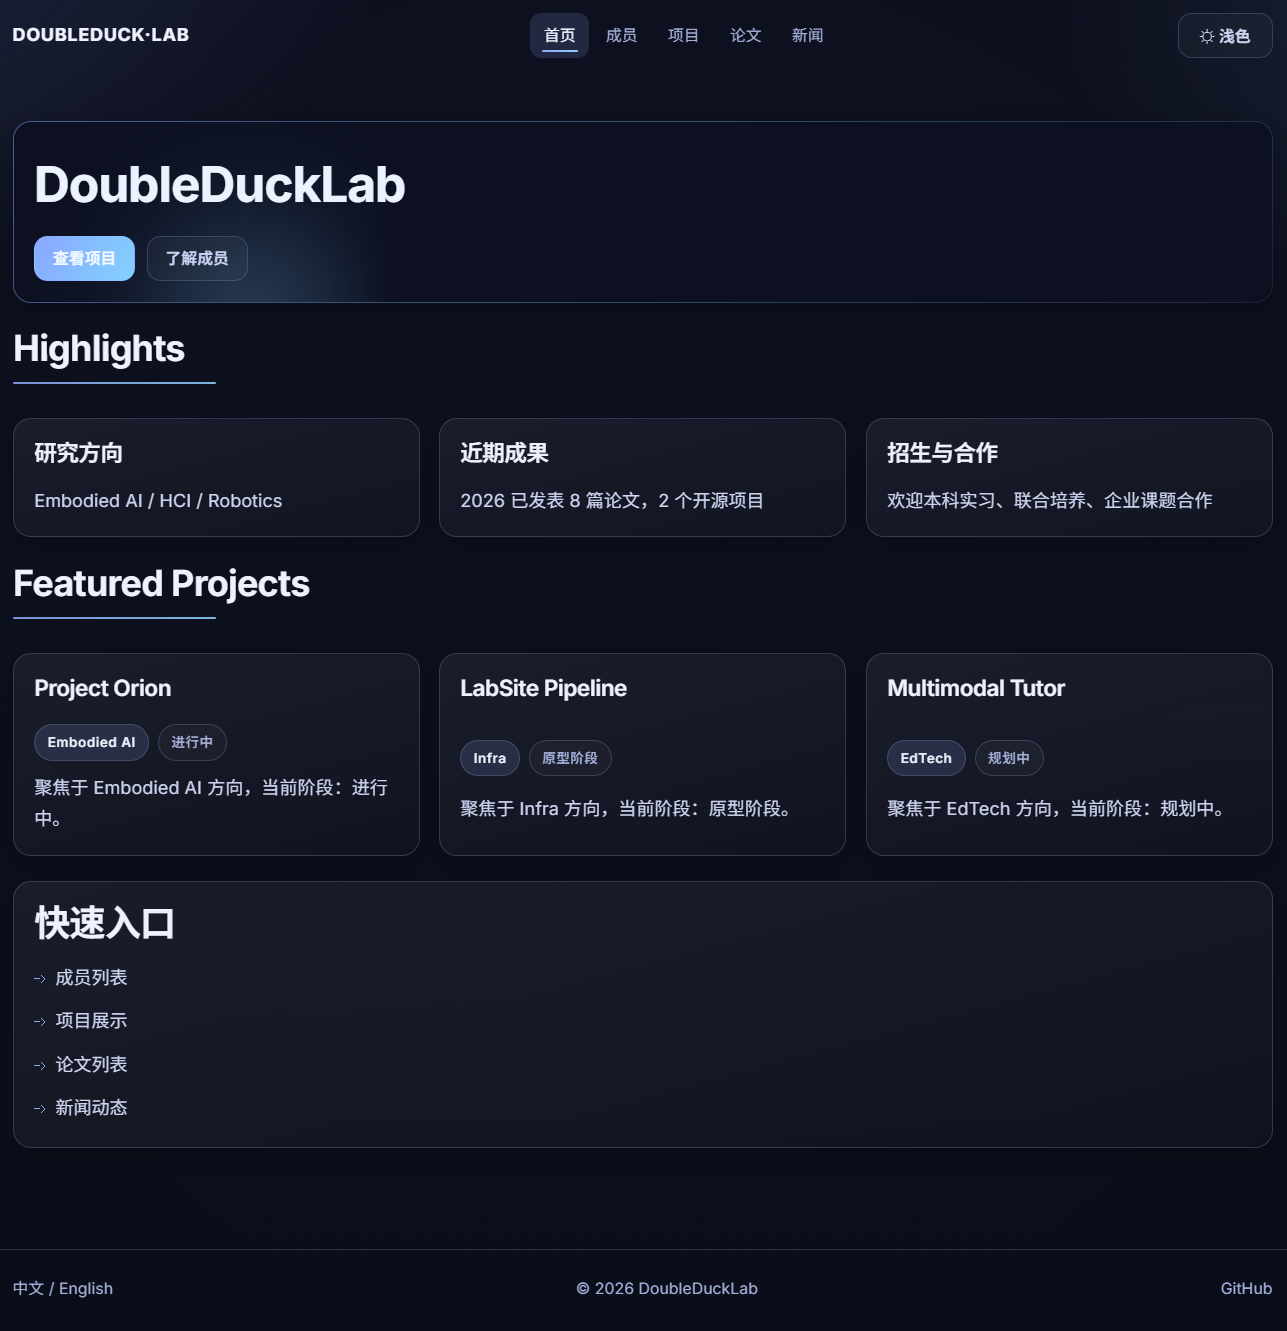
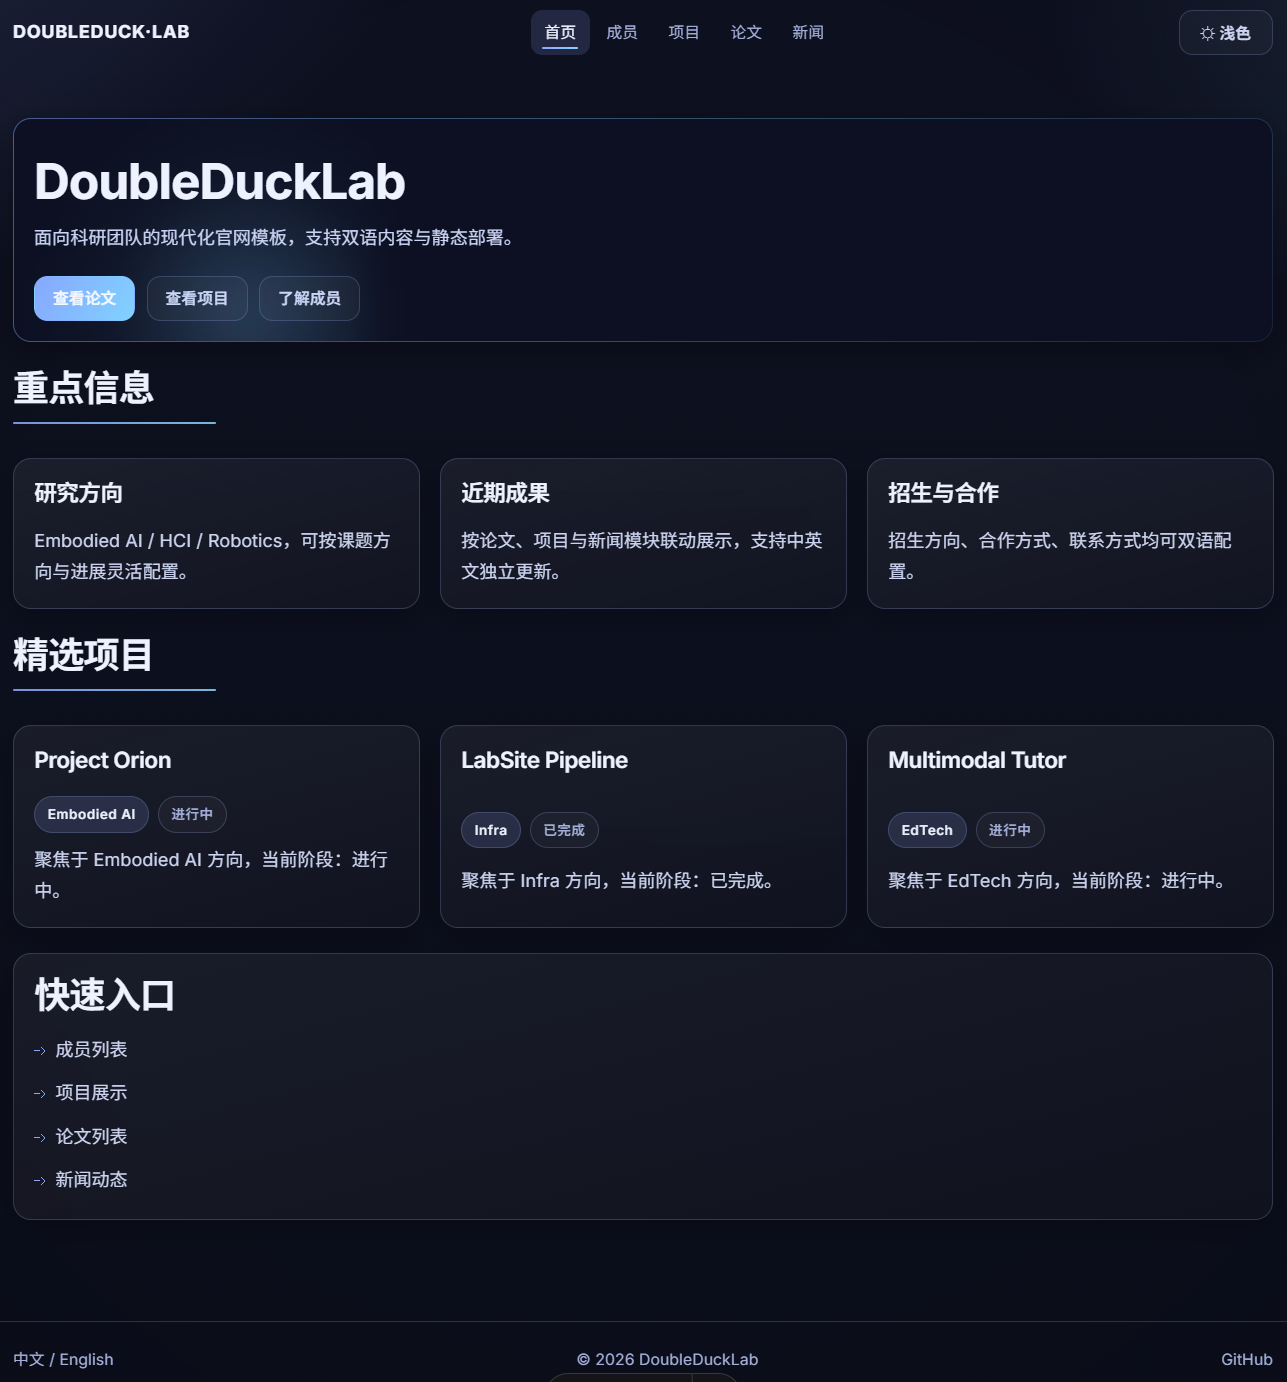
首页完成

diff --git a/README.md b/README.md
@@ -128,6 +128,44 @@ npm run preview
 
 ---
 
+## 🏠 首页文案配置（中英文）
+
+首页 Hero、Highlights、Featured Projects 标题都来自：
+
+- `src/data/site.zh.json`（中文）
+- `src/data/site.en.json`（英文）
+
+重点字段（两份文件都建议保持同结构）：
+
+```json
+{
+  "siteName": "DoubleDuckLab",
+  "home": {
+    "intro": "首页 Hero 副标题文案",
+    "sections": {
+      "highlights": "Highlights/重点信息 标题",
+      "featuredProjects": "Featured Projects/精选项目 标题"
+    },
+    "highlights": [
+      { "title": "研究方向", "desc": "研究方向描述" },
+      { "title": "近期成果", "desc": "近期成果描述" },
+      { "title": "招生与合作", "desc": "招生方向、合作方式、联系方式描述" }
+    ]
+  }
+}
+```
+
+说明：
+
+- 第 3 张卡可自定义标题（如“招生与合作 / Recruitment & Collaboration”）。
+- `highlights[].desc` 支持中英文独立配置，可分别写研究方向、近期成果、联系方式等信息。
+- 首页 CTA 默认顺序已调整为：
+  - 主按钮：查看论文 / View Papers
+  - 次按钮：查看项目 / Explore Projects
+  - 次按钮：了解成员 / Meet Members
+
+---
+
 ## 📄 Papers 内容配置
 
 论文内容使用 Astro Content Collections，文件位置：

diff --git a/src/content/projects/labsite-pipeline/overview_cn.md b/src/content/projects/labsite-pipeline/overview_cn.md
@@ -1,5 +1,5 @@
 ---
-title: "LabSite Pipeline"
+title: "实验室网站流程"
 tag: "Infra"
 status: "已完成"
 links:

diff --git a/src/content/projects/project-orion/overview_cn.md b/src/content/projects/project-orion/overview_cn.md
@@ -1,5 +1,5 @@
 ---
-title: "Project Orion"
+title: "猎户座项目"
 tag: "Embodied AI"
 status: "进行中"
 links:

diff --git a/src/content/projects/multimodal-tutor/overview_cn.md b/src/content/projects/multimodal-tutor/overview_cn.md
@@ -1,5 +1,5 @@
 ---
-title: "Multimodal Tutor"
+title: "多模态助教"
 tag: "EdTech"
 status: "进行中"
 ---
